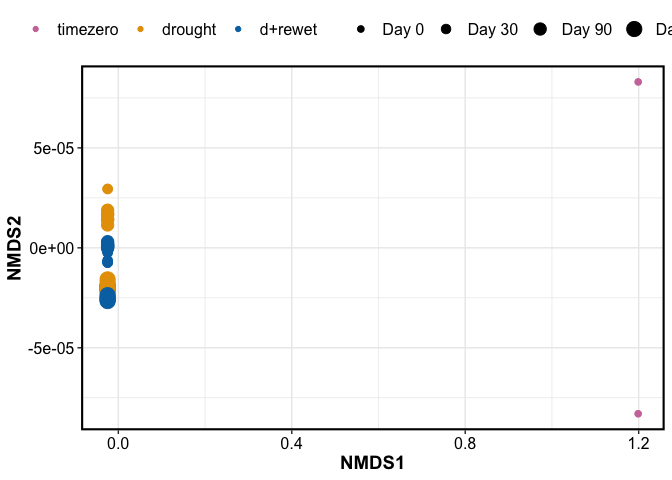
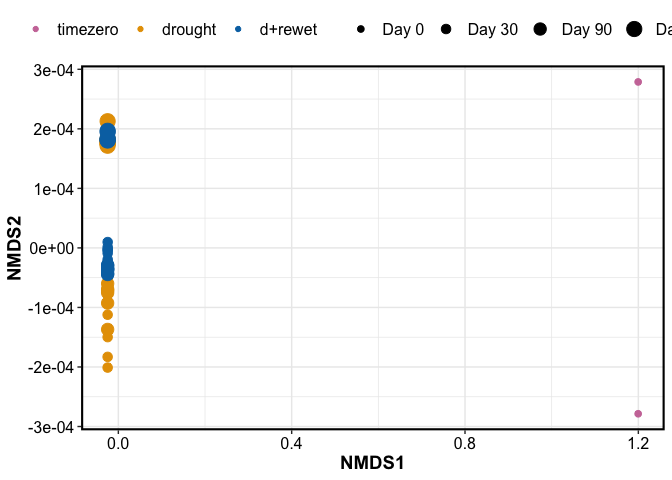
set.seed for Jaccard

diff --git a/3-reports/chemistry_report_NEW.md b/3-reports/chemistry_report_NEW.md
@@ -14,7 +14,7 @@ chemistry_report_NEW
 | depth      |   1 | 0.0506674 | 0.1149601 |  88.057141 |   0.001 |
 | length     |   2 | 0.2056311 | 0.4665603 | 178.687892 |   0.001 |
 | saturation |   1 | 0.1540093 | 0.3494347 | 267.659890 |   0.001 |
-| drying     |   1 | 0.0018533 | 0.0042049 |   3.220881 |   0.083 |
+| drying     |   1 | 0.0018533 | 0.0042049 |   3.220881 |   0.063 |
 | Residual   |  89 | 0.0512099 | 0.1161911 |         NA |      NA |
 | Total      |  94 | 0.4407384 | 1.0000000 |         NA |      NA |
 
@@ -24,7 +24,7 @@ chemistry_report_NEW
 |:-----------|----:|----------:|----------:|------------:|--------:|
 | length     |   2 | 0.1219450 | 0.7254832 | 189.9259569 |   0.001 |
 | saturation |   1 | 0.0420732 | 0.2503049 | 131.0558189 |   0.001 |
-| drying     |   1 | 0.0000653 | 0.0003882 |   0.2032546 |   0.680 |
+| drying     |   1 | 0.0000653 | 0.0003882 |   0.2032546 |   0.651 |
 | Residual   |  43 | 0.0138044 | 0.0821262 |          NA |      NA |
 | Total      |  47 | 0.1680880 | 1.0000000 |          NA |      NA |
 
@@ -43,10 +43,10 @@ molecules (presence/absence)
     ## Distance: jaccard 
     ## 
     ## Dimensions: 3 
-    ## Stress:     2.562803e-05 
+    ## Stress:     8.861388e-05 
     ## Stress type 1, weak ties
-    ## Best solution was repeated 6 times in 20 tries
-    ## The best solution was from try 15 (random start)
+    ## Best solution was repeated 10 times in 20 tries
+    ## The best solution was from try 11 (random start)
     ## Scaling: centring, PC rotation, halfchange scaling 
     ## Species: scores missing
 
